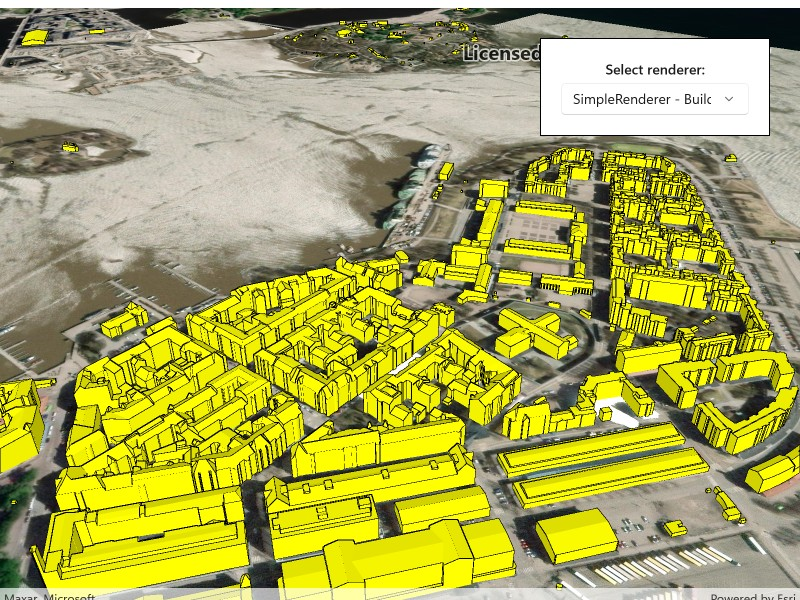
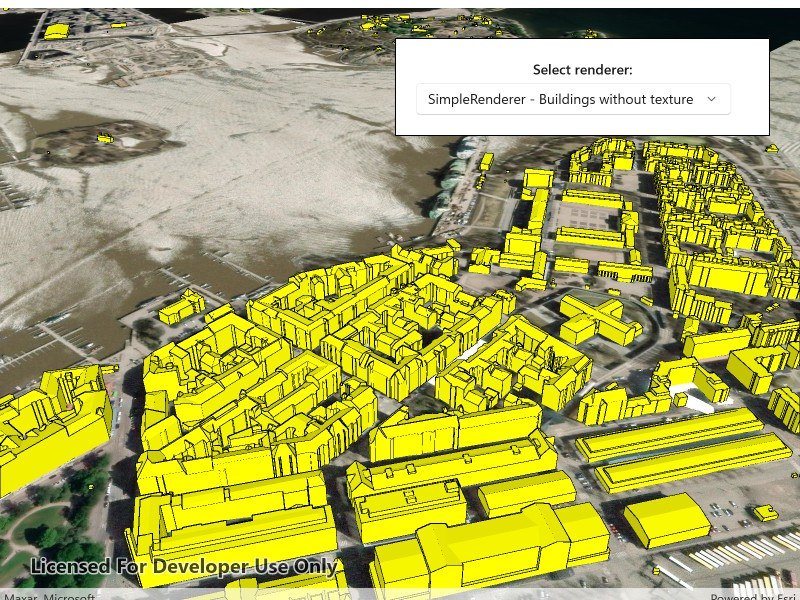
adjust width, remove redirect links, update screenshots

diff --git a/src/WPF/WPF.Viewer/Samples/Layers/ApplyRenderersToSceneLayer/ApplyRenderersToSceneLayer.xaml b/src/WPF/WPF.Viewer/Samples/Layers/ApplyRenderersToSceneLayer/ApplyRenderersToSceneLayer.xaml
@@ -5,7 +5,7 @@
     <Grid>
         <esri:SceneView x:Name="MySceneView" />
 
-        <Border MaxWidth="340" Style="{StaticResource BorderStyle}">
+        <Border Width="350" Style="{StaticResource BorderStyle}">
             <StackPanel>
                 <TextBlock Margin="0,0,0,5"
                            HorizontalAlignment="Center"

diff --git a/src/MAUI/Maui.Samples/Samples/Layers/ApplyRenderersToSceneLayer/ApplyRenderersToSceneLayer.xaml b/src/MAUI/Maui.Samples/Samples/Layers/ApplyRenderersToSceneLayer/ApplyRenderersToSceneLayer.xaml
@@ -16,7 +16,6 @@
                        VerticalTextAlignment="Center" />
                 <Picker x:Name="RendererPicker"
                         Grid.Row="1"
-                        MinimumWidthRequest="350"
                         SelectedIndexChanged="RendererPicker_SelectionChanged" />
             </Grid>
         </Border>

diff --git a/src/WinUI/ArcGIS.WinUI.Viewer/Samples/Layers/ApplyRenderersToSceneLayer/ApplyRenderersToSceneLayer.xaml b/src/WinUI/ArcGIS.WinUI.Viewer/Samples/Layers/ApplyRenderersToSceneLayer/ApplyRenderersToSceneLayer.xaml
@@ -6,7 +6,7 @@
     <Grid>
         <esriUI:SceneView x:Name="MySceneView" />
 
-        <Border MaxWidth="375" Style="{StaticResource BorderStyle}">
+        <Border Style="{StaticResource BorderStyle}">
             <StackPanel>
                 <TextBlock Margin="0,0,0,5"
                            HorizontalAlignment="Center"
